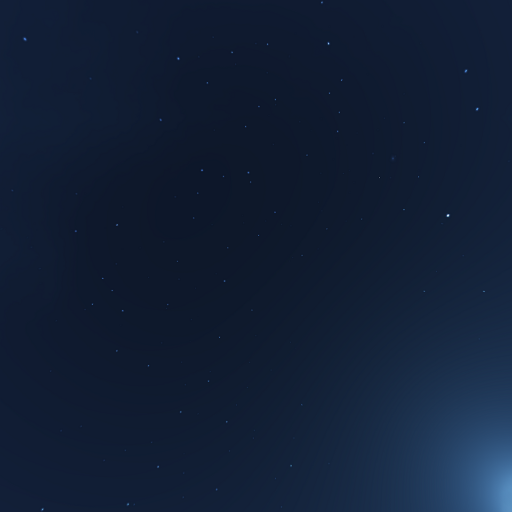
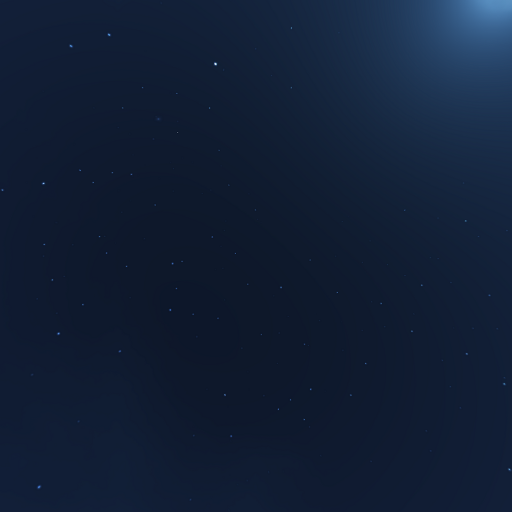
fix skybox rot

Changed region(s): [[0.7188, 0.6875, 1.0, 1.0], [0.6562, 0.0, 1.0, 0.25]]

diff --git a/README.md b/README.md
@@ -21,7 +21,6 @@ All merge requests should build without ANY type errors.
 
 ## TODO
 
-- [x] real fpv cam
 - [ ] better skybox
 - [ ] proper controls
   - [ ] hover mode
@@ -34,6 +33,8 @@ All merge requests should build without ANY type errors.
 - [ ] wind (air speed)
 - [ ] HUD
 - [ ] camera delay
+- [x] real fpv cam
+- [x] fix skybox rotation
 - [x] drone model
 - [x] fpv camera
 - [x] collisions
